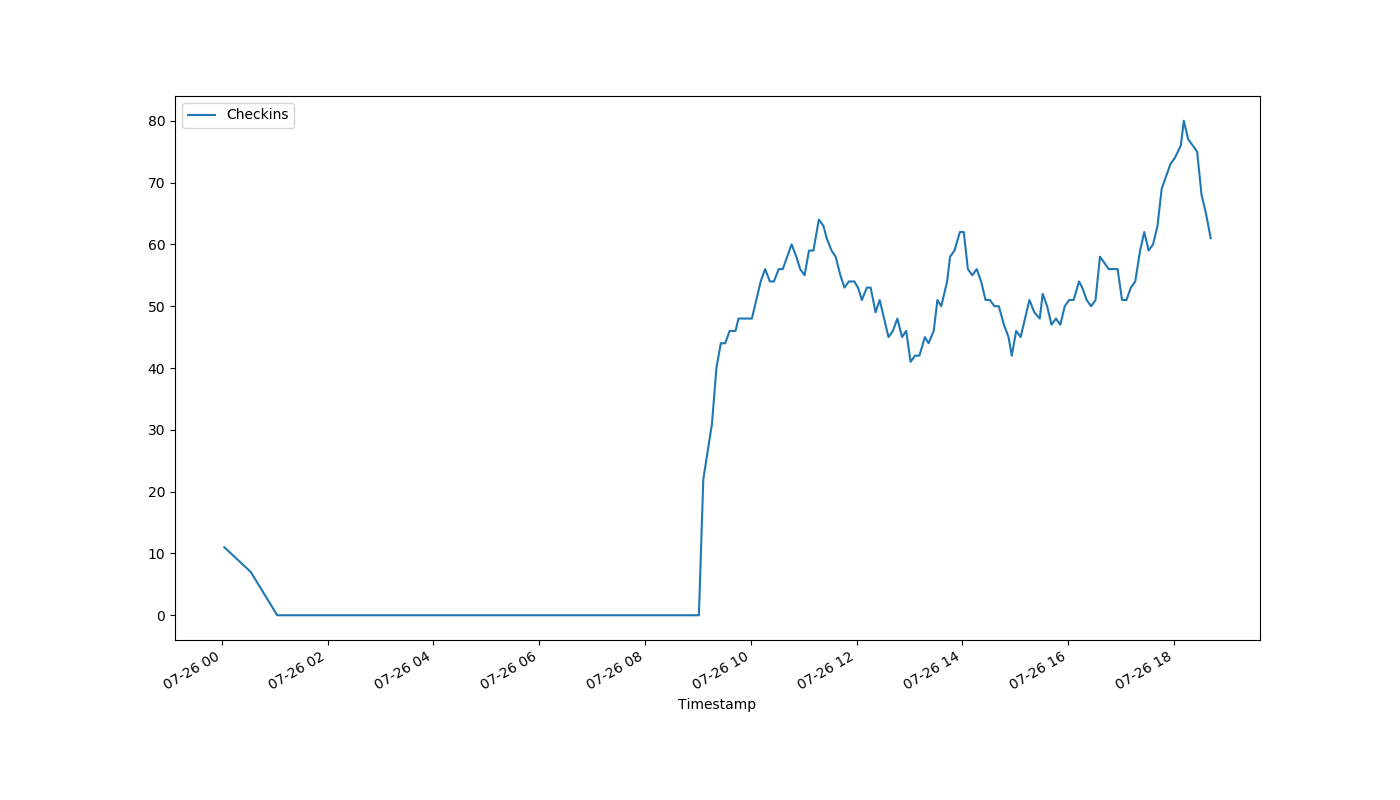
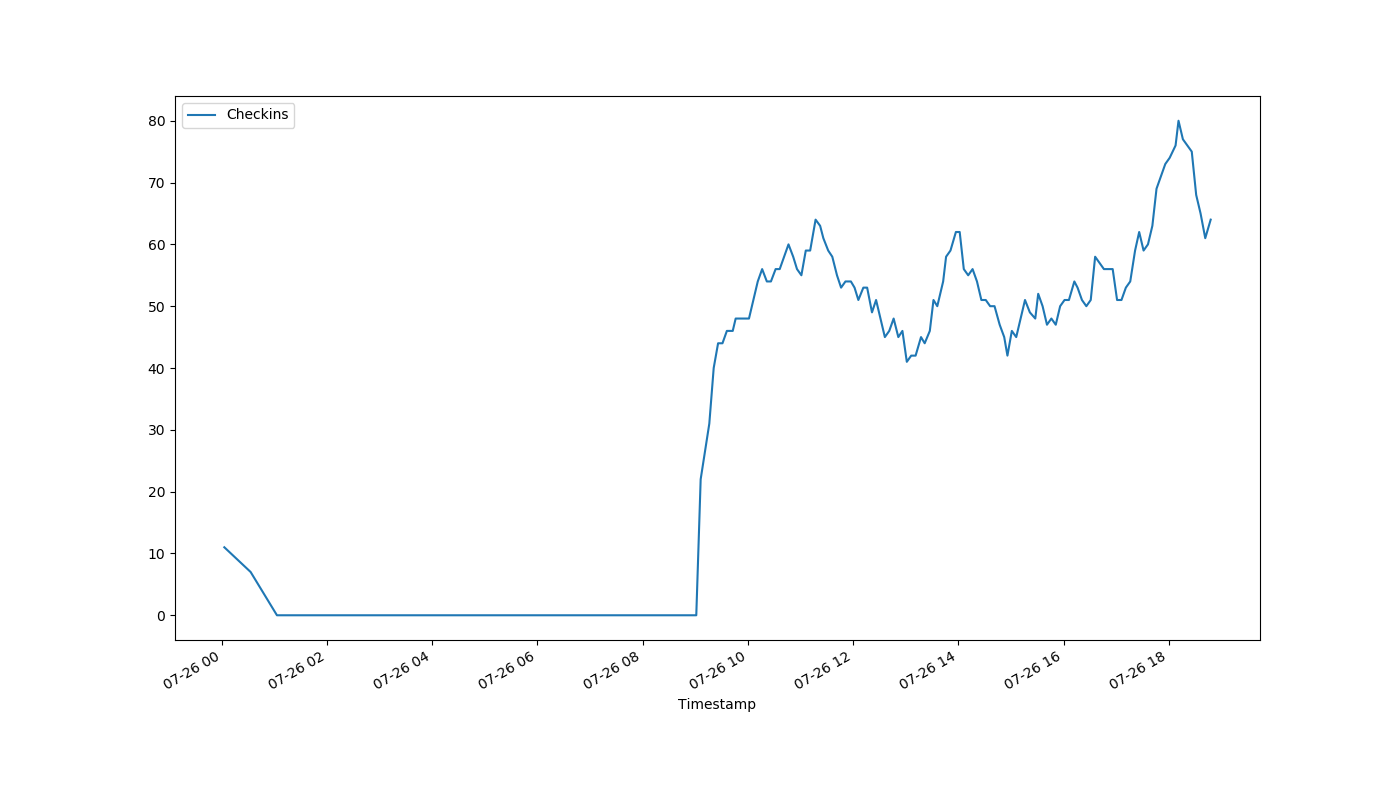
auto-Jul-26-18:49:06

diff --git a/index.html b/index.html
@@ -1,1 +1,1 @@
-<!DOCTYPE html><html><head><meta http-equiv="refresh" content="30"><link rel='stylesheet' href='holmcurrent.css'></head><body><p id='count'>-1</p><div id='graph-wrap'><img id='graph' src='holmgraph-Jul-26.png'></div><p id='updated'>Last updated 18:47:16 / 18:46:29</p></body></html>
+<!DOCTYPE html><html><head><meta http-equiv="refresh" content="30"><link rel='stylesheet' href='holmcurrent.css'></head><body><p id='count'>64</p><div id='graph-wrap'><img id='graph' src='holmgraph-Jul-26.png'></div><p id='updated'>Last updated 18:48:16 / 18:47:49</p></body></html>
